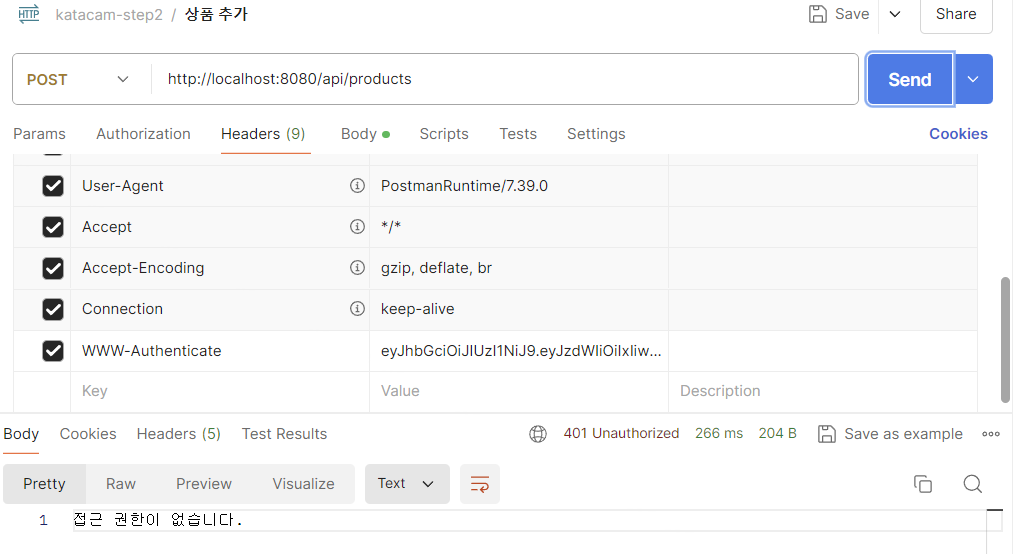
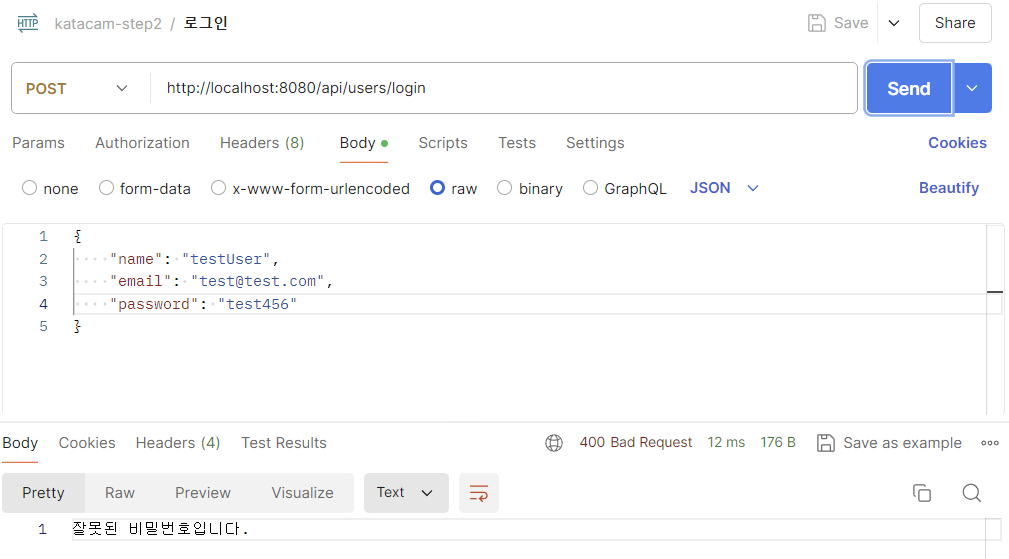
refactor: 잘못된 HTTP 상태 코드 변경

diff --git a/src/main/java/gift/auth/jwt/JwtProvider.java b/src/main/java/gift/auth/jwt/JwtProvider.java
@@ -2,7 +2,7 @@ package gift.auth.jwt;
 
 import gift.domain.user.entity.Role;
 import gift.domain.user.entity.User;
-import gift.exception.IllegalAuthException;
+import gift.exception.InvalidAuthException;
 import io.jsonwebtoken.Claims;
 import io.jsonwebtoken.ExpiredJwtException;
 import io.jsonwebtoken.Jws;
@@ -19,9 +19,13 @@ import org.springframework.stereotype.Component;
 public class JwtProvider {
     private static final long ACCESSTOKEN_EXPIRATION_TIME = 30 * 60 * 1000;
 
-    @Value("${jwt.secretkey}")
-    private String key;
-    private SecretKey secretKey = Keys.hmacShaKeyFor(key.getBytes());
+    private final String key;
+    private final SecretKey secretKey;
+
+    public JwtProvider(@Value("${jwt.secretkey}") String keyParam) {
+        this.key = keyParam;
+        this.secretKey = Keys.hmacShaKeyFor(key.getBytes());
+    }
 
     public Token generateToken(User user) {
 
@@ -44,12 +48,12 @@ public class JwtProvider {
             Claims claims = Objects.requireNonNull(parseClaims(token)).getPayload();
 
             if (claims.get("role") == null) {
-                throw new IllegalAuthException("error.invalid.token");
+                throw new InvalidAuthException("error.invalid.token");
             }
 
             return Role.valueOf((String) claims.get("role"));
         } catch (JwtException e) {
-            throw new IllegalAuthException("error.invalid.token");
+            throw new InvalidAuthException("error.invalid.token");
         }
     }
 
@@ -60,7 +64,7 @@ public class JwtProvider {
                 .build()
                 .parseSignedClaims(token);
         } catch(ExpiredJwtException ex) {
-            throw new IllegalAuthException("error.invalid.token.Expired");
+            throw new InvalidAuthException("error.invalid.token.Expired");
         }
     }
 }

diff --git a/src/main/java/gift/domain/user/service/UserService.java b/src/main/java/gift/domain/user/service/UserService.java
@@ -7,6 +7,7 @@ import gift.domain.user.dto.UserLoginDto;
 import gift.domain.user.entity.Role;
 import gift.domain.user.entity.User;
 import gift.auth.jwt.JwtProvider;
+import gift.exception.InvalidUserInfoException;
 import org.springframework.stereotype.Service;
 
 @Service
@@ -29,16 +30,16 @@ public class UserService {
 
     public Token login(UserLoginDto userLoginDto) {
         User user = userDao.findByEmail(userLoginDto.email())
-            .orElseThrow(() -> new IllegalArgumentException(userLoginDto.email()));
+            .orElseThrow(() -> new InvalidUserInfoException(userLoginDto.email()));
 
         if (!user.checkPassword(userLoginDto.password())) {
-            throw new IllegalArgumentException("error.invalid.userinfo.password");
+            throw new InvalidUserInfoException("error.invalid.userinfo.password");
         }
 
         return jwtProvider.generateToken(user);
     }
 
-    public Role verifyRole(Token token) throws IllegalAccessException {
+    public Role verifyRole(Token token) {
         return jwtProvider.getAuthentication(token.token());
     }
 }

diff --git a/src/main/java/gift/domain/product/controller/ProductRestController.java b/src/main/java/gift/domain/product/controller/ProductRestController.java
@@ -43,12 +43,12 @@ public class ProductRestController {
     }
 
     @PostMapping
-    public ResponseEntity<Product> createWithVerify(@RequestHeader("WWW-Authenticate") @Valid Token token,
+    public ResponseEntity<Product> createWithVerify(@RequestHeader("Authorization") @Valid Token token,
                              @RequestBody @Valid ProductDto productDto) {
         Role role = userService.verifyRole(token);
 
         if (role != Role.ADMIN) {
-            throw new IllegalAuthException("error.invalid.access");
+            throw new IllegalAuthException("error.illegal.access");
         }
 
         Product product = productDto.toProduct();

diff --git a/src/main/java/gift/exception/InvalidUserInfoException.java b/src/main/java/gift/exception/InvalidUserInfoException.java
@@ -5,6 +5,6 @@ import org.springframework.http.HttpStatus;
 public class InvalidUserInfoException extends CustomException {
 
     public InvalidUserInfoException(String message) {
-        super(HttpStatus.FORBIDDEN, message);
+        super(HttpStatus.BAD_REQUEST, message);
     }
 }

diff --git a/src/main/java/gift/exception/IllegalAuthException.java b/src/main/java/gift/exception/IllegalAuthException.java
@@ -5,6 +5,6 @@ import org.springframework.http.HttpStatus;
 public class IllegalAuthException extends CustomException {
 
     public IllegalAuthException(String message) {
-        super(HttpStatus.UNAUTHORIZED, message);
+        super(HttpStatus.FORBIDDEN, message);
     }
 }

diff --git a/src/main/java/gift/exception/InvalidAuthException.java b/src/main/java/gift/exception/InvalidAuthException.java
@@ -1,0 +1,10 @@
+package gift.exception;
+
+import org.springframework.http.HttpStatus;
+
+public class InvalidAuthException extends CustomException {
+
+    public InvalidAuthException(String message) {
+        super(HttpStatus.UNAUTHORIZED, message);
+    }
+}

diff --git a/src/main/java/gift/domain/user/entity/User.java b/src/main/java/gift/domain/user/entity/User.java
@@ -27,6 +27,10 @@ public class User {
         return email;
     }
 
+    public String getPassword() {
+        return password;
+    }
+
     public Role getRole() {
         return role;
     }

diff --git a/README.md b/README.md
@@ -80,10 +80,11 @@
   ![img.png](img.png)
 - [x] 로그인 기능 구현
   ![img_1.png](img_1.png)
-  - 권한이 낮거나 토큰이 유효하지 않은 경우 `401 Unauthorized` 반환
-    ![img_3.png](img_3.png)
-  - 비밀번호가 틀린 경우 `403 Forbidden` 반환
-    ![img_2.png](img_2.png)
+  - 권한이 낮은 경우 `403 Forbidden` 반환
+    ![img_4.png](img_4.png)
+  - 헤더나 토큰이 유효하지 않은 경우 `401 Unauthorized` 반환
+  - 비밀번호가 틀린 경우 `400 Bad Reqeust` 반환
+    ![img_3.png](img_3.png)    
 
 ## 3단계 - 위시 리스트
 > 2단계에서 로그인 후 받은 토큰을 사용하여 사용자별 위시 리스트 기능을 구현한다.
